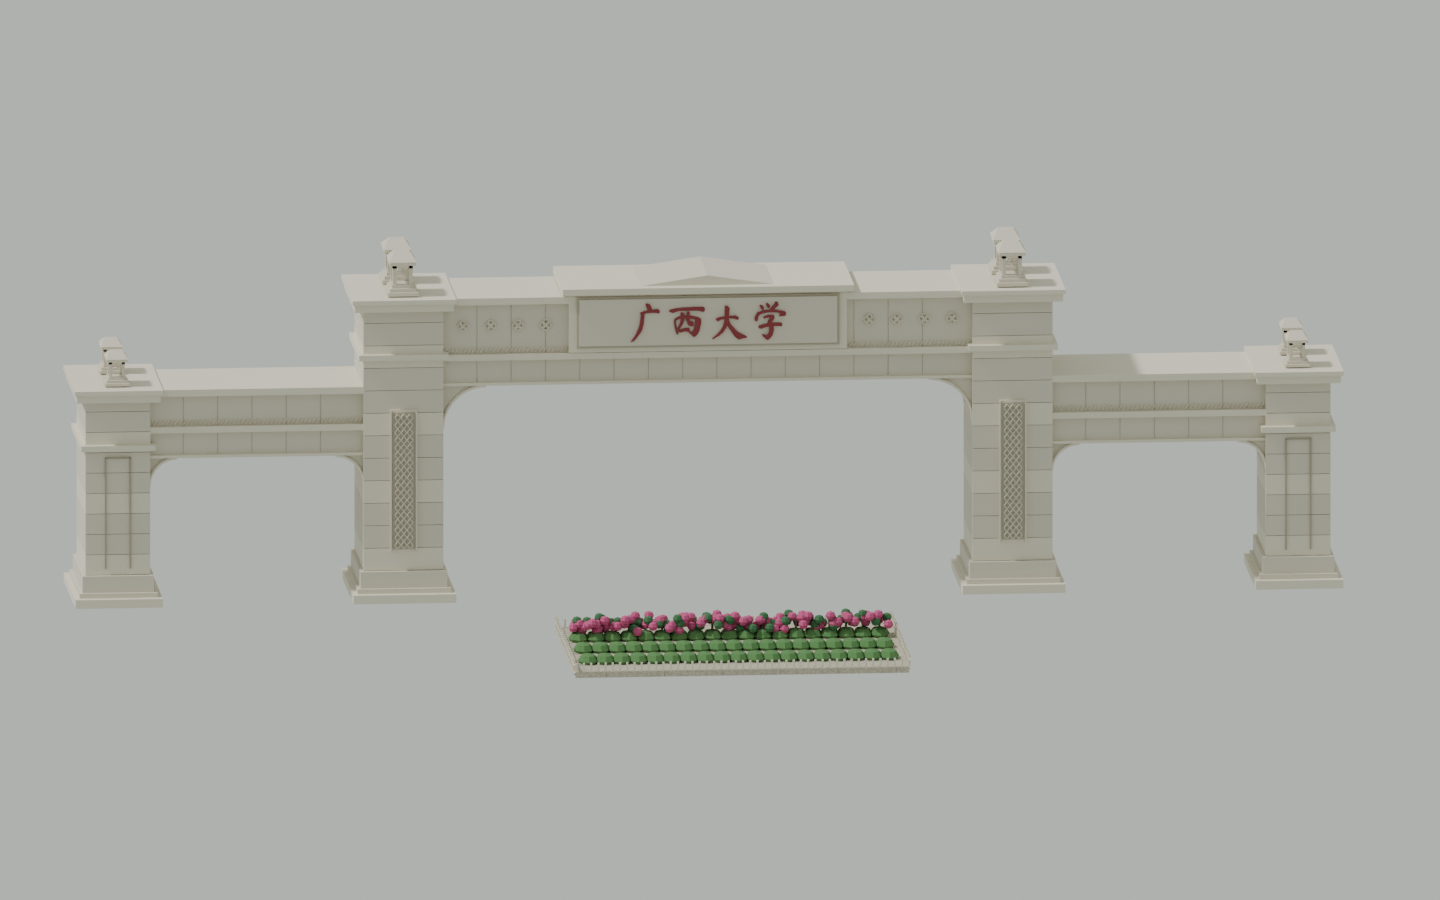
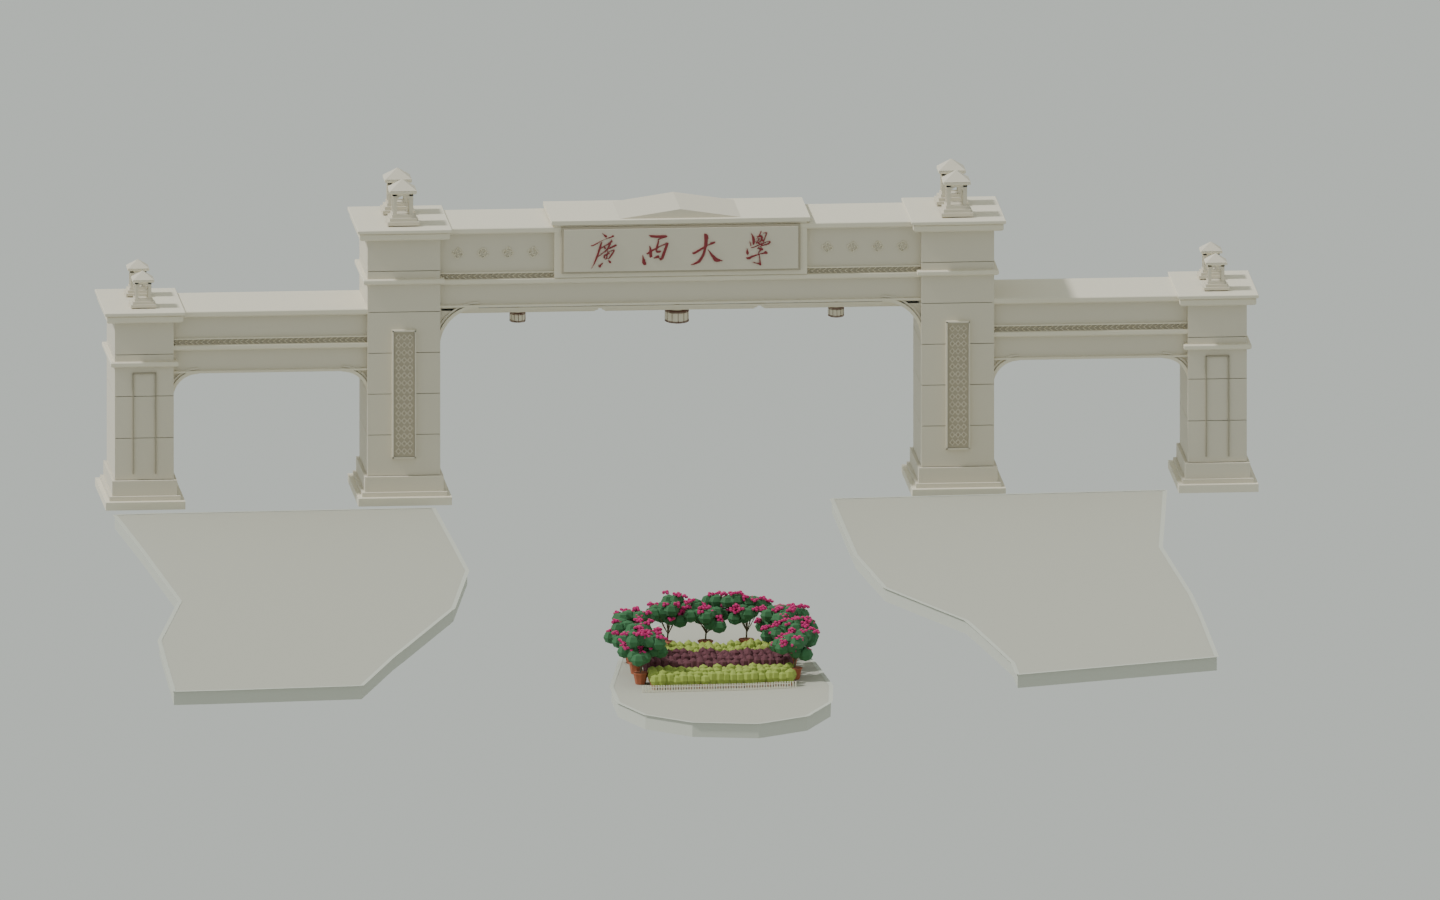
docs: 更新南门复原依据与源文件维护说明

diff --git a/docs/MODELING.md b/docs/MODELING.md
@@ -8,6 +8,8 @@
 
 源文件 `blender/gxu-campus.blend` 当前由 Blender 5.2.2 LTS 构建，使用米制坐标；建筑、树木与道路水体为具名对象，建筑带 `featureId` / `landmark` / `sourceUrl` 属性。材质与自制 JPEG 纹理均打包在 .blend 内，不需要额外下载摄影贴图。
 
+仓库内只保留这一份最新 `.blend` 源文件，正式版本通过 Git 历史恢复。建模验收完成后清理 `work/` 中的候选源文件和 `.blend1` 等自动备份；保留建模脚本、参数、参考资料与检查报告。
+
 树木朝向由树位稳定计算，网页与 Blender 共用同一角度约定，局部删树不影响其余树的朝向。已有开放区域由 `data/vegetation-zones.json` 配置，完整与增量准备复用分区解析器。仅更新源文件朝向使用 `blender/update_tree_layout.py`；完整建模也采用同一公式，详见[植被分区与稳定朝向](VEGETATION_ZONES.md)。背景候选按世界网格独立种子生成；完整建模通过 `blender/tree_layout.py` 采样最终地形三角面，将高程写入树位第五列并应用到源实例。数据准备后须完成模型构建再发布树位；只校正既有源实例高程时，可对上述增量命令添加 `-- --ground`，再更新网页生产包。
 
 行道树使用 `data/vegetation-avenues.json` → `scripts/vegetation_avenues.py`，在最终植被筛选前局部替换背景树。道路ID和线位哈希固定里程方向，候选按道路切线生成双侧偏移，再保留路口开口；重复准备保留已有树位的标高。首个[博萃路试点](AVENUE_PILOT.md)保留14株树，全部3,061株继续经过占地、树冠保留区、显式禁植区及模型检查。个别树位、间距和高度为估算，模板仍由既有GLB实例化，未增加新的树模型资源。
@@ -63,7 +65,7 @@ blender --background --python-exit-code 1 --python blender/validate_landmarks.py
 | 20 个地标 GLB | 独立加载，可点选、巡游和单独修改；使用一致的米制位置 |
 | trees.glb | 3 个多材质模板，网页合并为顶点色几何后分块实例化 |
 
-模板材质包括石材、白色涂层、玻璃、深色金属、灰青屋瓦、铺装、草地、树皮和三种树冠色。10 张 128 × 128 自制 JPEG 纹理采用米制平面 UV；没有大尺寸摄影贴图。几何使用 Draco，解码器本地托管。东/西/北是场景加载分区，并不逐线等同于校方的行政分区。网页以视距触发普通分区近景，树木按空间块进行视锥剔除。首屏基础模型和树木模板共 5,993,304 字节（约5.99 MB，十进制）。自动画质按运行表现调整阴影、植被密度与近景预算，手机默认采用保守配置，详见 [近期优化](FIXES.md)。
+模板材质包括石材、白色涂层、玻璃、深色金属、灰青屋瓦、铺装、草地、树皮和三种树冠色。10 张 128 × 128 自制 JPEG 纹理采用米制平面 UV；没有大尺寸摄影贴图。几何使用 Draco，解码器本地托管。东/西/北是场景加载分区，并不逐线等同于校方的行政分区。网页以视距触发普通分区近景，树木按空间块进行视锥剔除。首屏基础模型和树木模板共 5,947,236 字节（约5.95 MB，十进制）。自动画质按运行表现调整阴影、植被密度与近景预算，手机默认采用保守配置，详见 [近期优化](FIXES.md)。
 
 ### 普通建筑共享形体（2026-09-12）
 
@@ -112,13 +114,29 @@ blender --background --python-exit-code 1 --python blender/render_checks.py
 
 ## 南大门现状重建与汇学堂朝向修正（2026-09-09）
 
-旧版误用了官方无日期图库中的旧南门柱列照片，现已完全替换为近期照片一致可见的三跨石门。现模型保留三处真实贯通门洞、四个分块石柱、弧形承托、叠层檐口、石雕嵌板、双排顶部小亭和横向红色校名。近景含门柱分缝、几何花纹、檐下纹饰、匾额嵌框及立体字；基础 LOD 保留相同现状轮廓与校名。门前花坛和矮栏按近期照片示意配置，不包含临时活动帐篷。
+旧版误用了官方无日期图库中的旧南门柱列照片，现已完全替换为近期照片一致可见的三跨石门。现模型保留三处真实贯通门洞、四个分块石柱、弧形承托、叠层檐口、石雕嵌板、双排顶部小亭和横向红色校名。近景含门柱分缝、几何花纹、檐下纹饰、匾额嵌框及立体字；基础 LOD 保留相同现状轮廓与校名。门前按近期实拍重建铺装分流岛、盆栽展示与两侧通行空间，不包含临时活动帐篷。
 
 依据为 [2022 年校方毕业季第二张照片](https://news.gxu.edu.cn/info/1002/39575.htm)、[2024-10-10 日期水印现场照片](https://www.lun51.com/homepage/index.php?a=index&aid=1069&c=View&m=home)、[2026 年活动报道首图](https://www.5iidea.com/contents/47982)。2026 文章发布于 4 月 27 日、活动发生于 4 月 14 日，但单张门口照片的拍摄日未知。没有使用旧门照片恢复现门。
 
-门的位置、宽度和进深绑定 OSM way/1492215424 门楼轮廓；门高及构件比例、未见背面为照片估算；雕花为几何近似，非扫描。校名使用 [Ma Shan Zheng](https://github.com/google/fonts/tree/main/ofl/mashanzheng) 开源书法字形替代原题字，不能称为原笔迹精确复刻。完整字体及 SIL OFL 许可位于 `blender/fonts/`；仅字形网格进入 GLB，网页不加载字体文件。
+门的位置、宽度和进深绑定 OSM way/1492215424 门楼轮廓；门高及构件比例、未见背面为照片估算；雕花为几何近似，非扫描。2026-10-04 南门校名改用[校方学校标识页](https://www.gxu.edu.cn/xdgl1/xxbs1.htm)校徽配套题字的轮廓，保存于 `blender/fonts/gxu-wordmark.json`（附原图地址、哈希和处理参数）。按字调整显示大小及间距，保留连笔、笔锋和镂空，生成厚约 4.5 厘米的红色立体字；基础与近景 LOD 共用字形。同步略收薄匾额上檐与山花，门洞、门柱、定位及占地不变。轮廓来自官方位图的简化描摹，不是校方原始矢量文件，也不是实门题字尺寸测绘。其他建筑题字继续使用 `blender/fonts/` 中的 Ma Shan Zheng 与 SIL OFL 许可；新南门轮廓不属于该字体。网页仅加载字形网格，不加载图片或字体。
 
-源模型南大门保留具名顶点组，方便分别编辑门柱、各门跨、匾额、校名和景观。规则位于 `blender/south_gate.py`。汇学堂先交换建模局部宽深再绕中心旋转 +90°，入口由南转东且主体仍适配原 OSM 边界框；导览镜头同步切换到东侧。朝向修正依据用户确认，不代表 OSM 数据在该日重新测量。
+柱顶小亭保留四面贯通拱口与四坡尖顶；每根门柱前后两座小亭按用户指正等大、等高，几何检查直接比较保存网格的包围盒和屋顶标高。门洞仰拍支持中央三格吊顶和三盏铜鼓形灯，雕花、灯体细纹及未见背面仍为几何近似。
+
+### 门前路口：2024-11-30 卫星影像校准
+
+此前仅凭裁切地面照片估算路口，将花岛放得过近且过宽，并把斑马线做成水平横排，导致错误的对称车道与草地空隙。当前已按 [Esri World Imagery](https://services.arcgisonline.com/ArcGIS/rest/services/World_Imagery/MapServer) 的近期影像重新描图。层级 19 的来源元数据给出拍摄日 **2024-11-30**、分辨率 **0.34 米**、位置精度 **8.47 米**；版本为 Vivid Advanced / LG01、Raster Basemaps 2025.R06，检索日为 2026-10-04。日期不取自网页发布时间。受影像位置误差、建筑投影和树冠遮挡影响，描图不等于精确测绘。
+
+- 门前入口沿影像中的左右路缘展开，接入大学东路路口；原先两条道路中心线之间错误留出的草地空隙已消除。
+- 花岛改为较狭长的轮廓，约 8.3 米宽、21 米长，位于门楼中心以南约 25—46 米；这些数值来自人工描图，受上述精度限制。
+- 斑马线顺影像中可见的斜向带状区域布置，东端更靠南；条带宽度、间隔及磨损程度仍简化处理。
+- [2024 日期水印照片](https://www.lun51.com/homepage/index.php?a=index&aid=1069&c=View&m=home)与[2025 发布的广角照](https://www.5iidea.com/contents/44980)用于交叉核对铺装、圆弧前端、黄色网格和盆栽。后者拍摄日未知，不作为精确道路定位依据。季节花境按新岛体宽度重新排布，仍为独立花盆。
+- 小门外不设交通护栏，保留花境前沿的矮栅。
+
+人工选取的影像像素点、地理换算、来源元数据与预处理网格保存在 `data/south-gate-site.json`。运行 `work/venv/bin/python scripts/prepare_south_gate_site.py` 可从像素点重算米制向量、局部路面网格与裁切范围，再运行南门增量构建。影像瓦片不打包到网页，也不作为模型贴图；网页只加载几何。场地生成位于 `blender/south_gate_site.py`，道路裁切保留范围外顶点及 UV。基础与近景共用道路、铺装、盆栽中心和校名字形。
+
+南门小改可运行 `blender --background --python-exit-code 1 --python blender/update_south_gate.py`，同步南门和局部道路的可编辑源对象、基础模型对应节点、独立近景 GLB 及清单哈希。道路修改限于描图路口与被替换的旧局部补丁之并集（包围范围约 87 × 91 米）；程序核对该范围外原道路面的坐标和 UV 保持不变，以及其余 95 个基础节点的压缩数据和其他 GLB 保持不变，结果见 [南门增量检查](model-checks/south-gate-update.json)。需要重提取轮廓时，将该官方原图保存至 `work/`，运行 `work/venv/bin/python scripts/prepare_gate_wordmark.py 原图路径`，再执行增量模型构建。
+
+源模型南大门保留具名顶点组，方便分别编辑门柱、各门跨、匾额、校名和景观。建筑规则位于 `blender/south_gate.py`，场地单独保留铺装、盆栽、花境前沿矮栅顶点组。汇学堂先交换建模局部宽深再绕中心旋转 +90°，入口由南转东且主体仍适配原 OSM 边界框；导览镜头同步切换到东侧。朝向修正依据用户确认，不代表 OSM 数据在该日重新测量。
 
 ```sh
 npm run models:build
@@ -126,7 +144,7 @@ blender --background --python-exit-code 1 --python blender/validate_landmarks.py
 blender --background --python-exit-code 1 --python blender/render_checks.py -- south-gate huixue
 ```
 
-几何检查直接读取保存后的 .blend：射线检查三门洞贯通、四门柱和三横梁存在，并检查汇学堂木门顶点位于东立面。结果见 [geometry-check.json](model-checks/geometry-check.json)。
+几何检查直接读取保存后的 .blend：射线检查三门洞贯通、四门柱和三横梁存在，另检查花盆底部落在铺装上、两侧车道净空、拍照区留白、路口连续沥青面、斜向条带与沥青间隙，以及新旧路面接缝，并检查汇学堂木门顶点位于东立面。结果见 [geometry-check.json](model-checks/geometry-check.json)。
 
 现南门直接绑定 OSM `way/1492215424`（`building=gatehouse`、`man_made=ceremonial_gate`），替换原先在该轮廓生成的通用建筑。原版独立 POI 位于其北侧约 90 米，已经移除该误定位；稳定地标 ID 仍是 `south-gate`。
 

diff --git a/README.md b/README.md
@@ -90,7 +90,7 @@ python -m pip install -r scripts/requirements.txt -c scripts/constraints-geodata
 npm run test:data
 ```
 
-[可编辑源文件](blender/gxu-campus.blend) 内含具名对象、材质和打包纹理。修改模型需要 Blender；步骤见 [建模说明](docs/MODELING.md)。[原始数据快照](data/snapshots/) 用于离线恢复，[网页模型](public/models/) 使用 Draco 压缩并按需加载。首屏模型和树木模板共 5,993,304 bytes，低于 6 MB（十进制）预算；[无损打包](docs/LOSSLESS_INITIAL_MODELS.md)共享重复载荷并保留纹理像素；[省去未使用纹理坐标](docs/EXPORT_ATTRIBUTE_BUDGET.md)后保留原形体与材质，并继续用于[数学学院立面校准](docs/MATHEMATICS_FACADE_PANELS.md)、[数学研究中心校准](docs/MATH_CENTER_CALIBRATION.md)及[东翼外廊](docs/MATH_CENTER_EAST_GALLERIES.md)。脚本、JSON 和解码器另计。
+[可编辑源文件](blender/gxu-campus.blend) 内含具名对象、材质和打包纹理。修改模型需要 Blender；步骤见 [建模说明](docs/MODELING.md)。[原始数据快照](data/snapshots/) 用于离线恢复，[网页模型](public/models/) 使用 Draco 压缩并按需加载。首屏模型和树木模板共 5,947,236 bytes，低于 6 MB（十进制）预算；[无损打包](docs/LOSSLESS_INITIAL_MODELS.md)共享重复载荷并保留纹理像素；[省去未使用纹理坐标](docs/EXPORT_ATTRIBUTE_BUDGET.md)后保留原形体与材质，并继续用于[数学学院立面校准](docs/MATHEMATICS_FACADE_PANELS.md)、[数学研究中心校准](docs/MATH_CENTER_CALIBRATION.md)及[东翼外廊](docs/MATH_CENTER_EAST_GALLERIES.md)。脚本、JSON 和解码器另计。
 
 ## 项目文档
 
